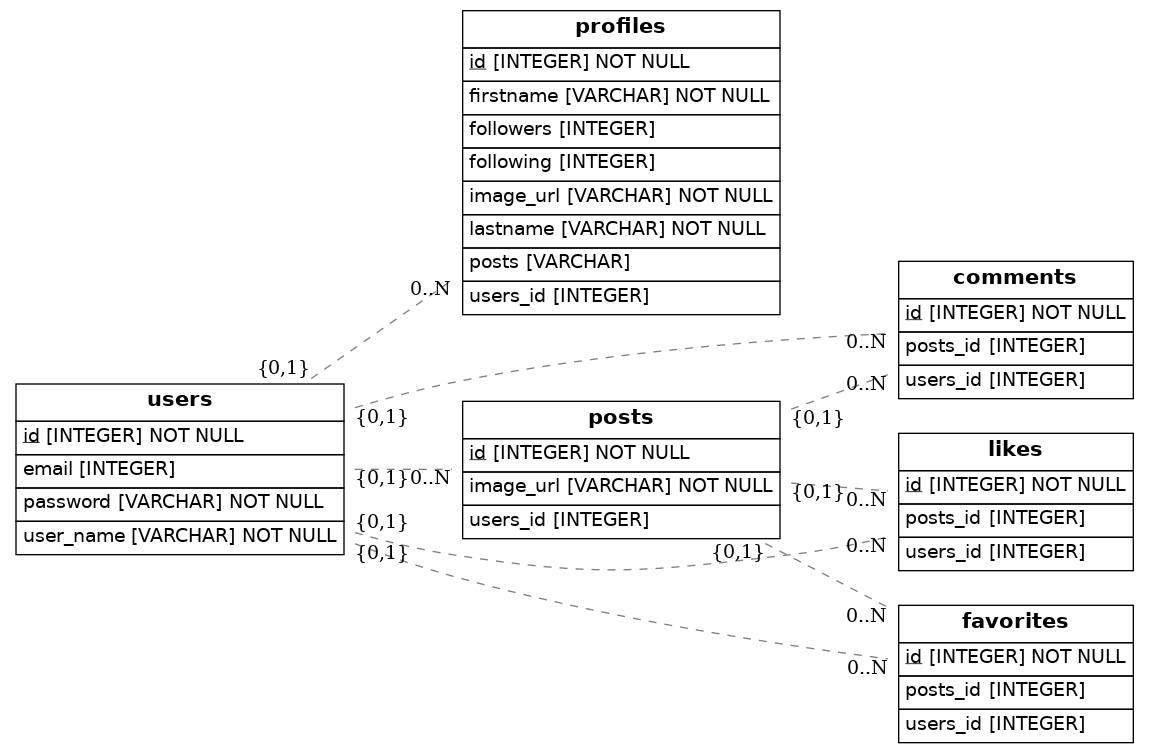
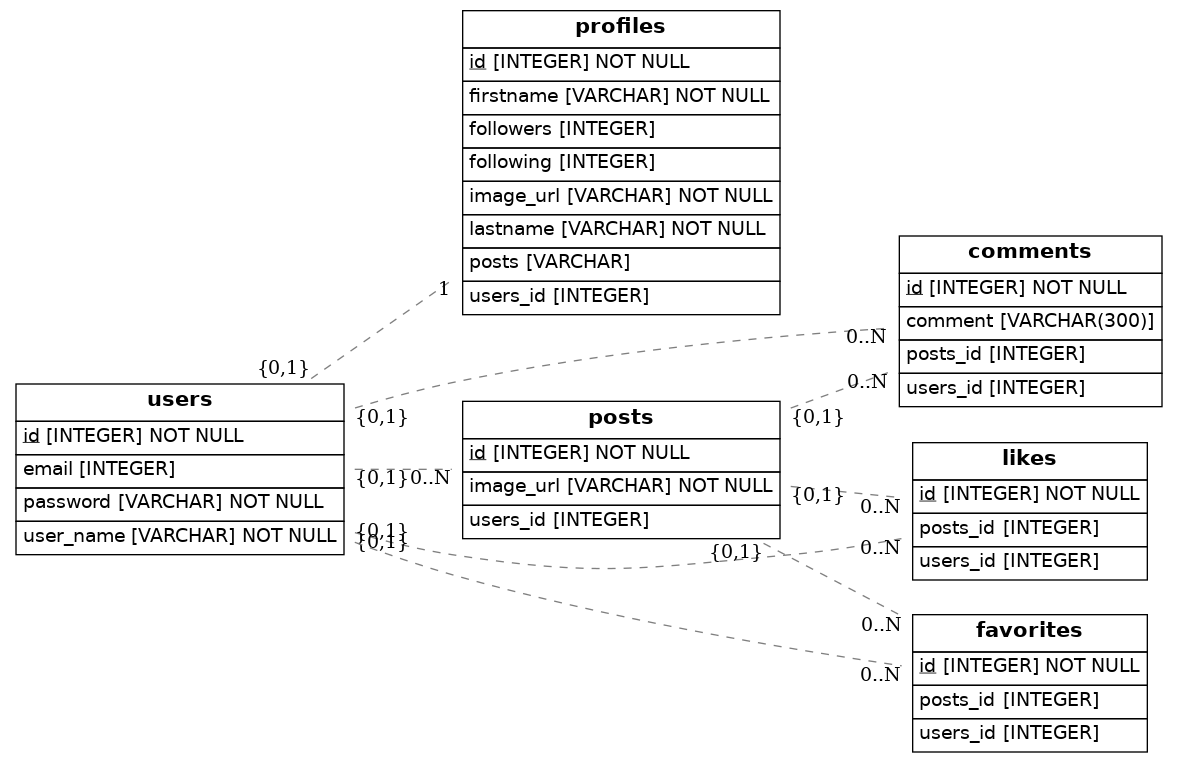
fixed table profiles

diff --git a/src/models.py b/src/models.py
@@ -15,6 +15,7 @@ class Users(Base):
     user_name = Column(String, nullable=False)
     password = Column(String, nullable=False)
     email = Column(Integer, unique=True)
+    profiles = relationship("Profiles", back_populates="users")
 
 
 class Profiles(Base):
@@ -28,8 +29,8 @@ class Profiles(Base):
     posts = Column(String) 
     followers = Column(Integer)
     following = Column(Integer)
-    users_id = Column(Integer, ForeignKey('users.id'))
-    users = relationship(Users)
+    users_id = Column(Integer, ForeignKey('users.id'), unique=True)
+    users = relationship("Users", back_populates="profiles")
 
 
     def to_dict(self):
@@ -47,7 +48,7 @@ class Comments(Base):
     __tablename__ = 'comments'
     id = Column(Integer, primary_key=True)
     users_id = Column(Integer, ForeignKey('users.id'))
-    comment = (String(300))
+    comment = Column(String(300))
     posts_id = Column(Integer, ForeignKey('posts.id'))
 
 
